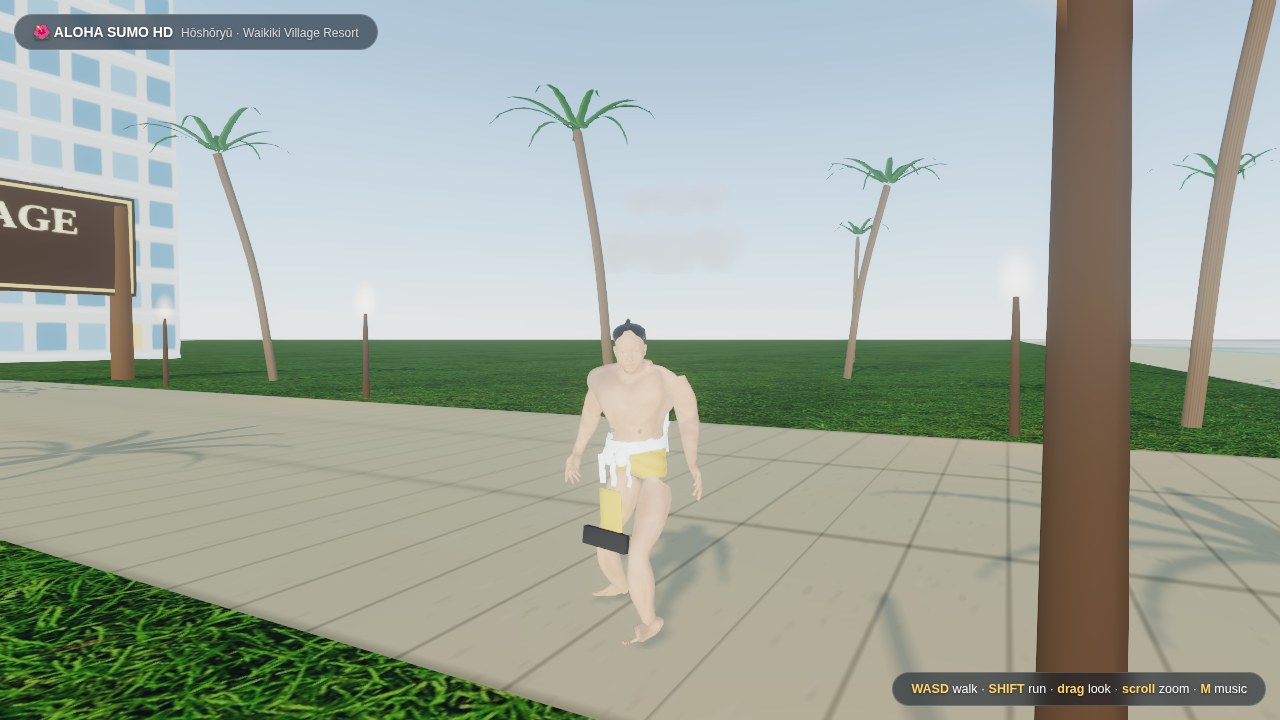
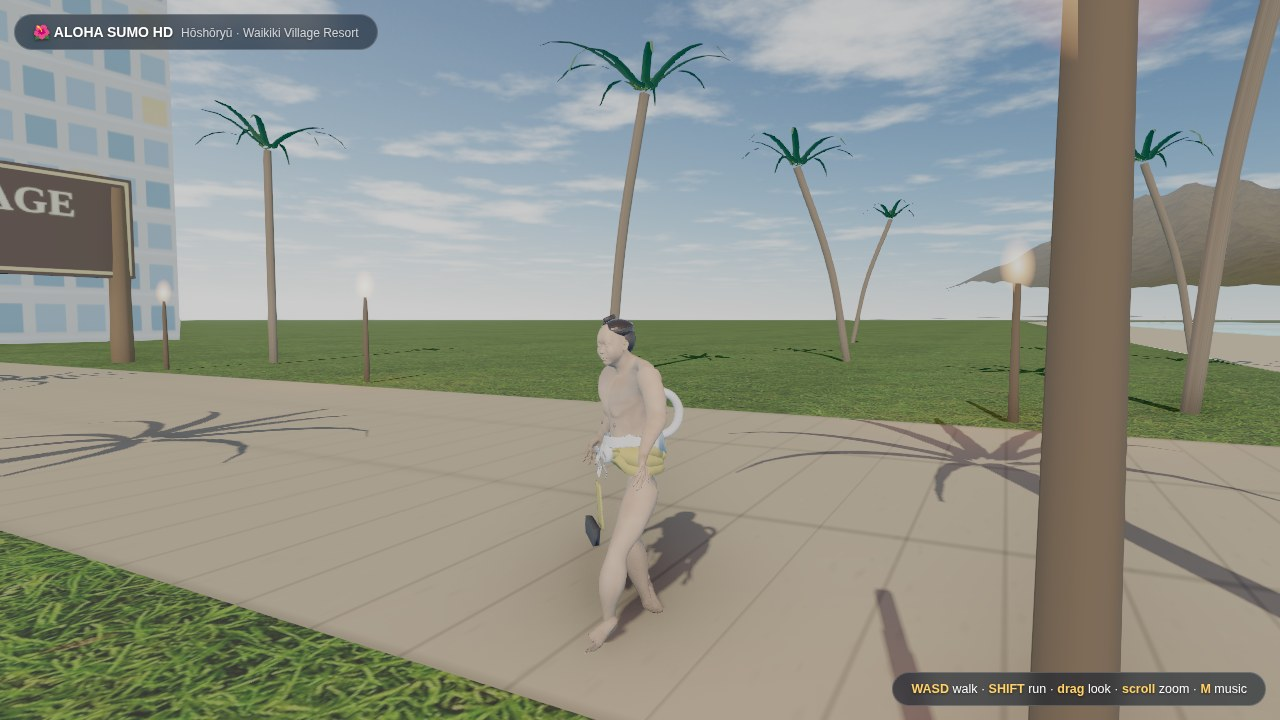
Finish realism pass: photographic sky, N8AO, 4K shadows, Diamond Head in HD
Replace procedural sky with a real tropical skybox photograph (cubemap
background + PMREM environment lighting), add N8AO ambient occlusion for
grounded contact shadows, bump shadow maps to 4096 with tighter frustum,
and port the Diamond Head heightfield into the HD scene.

Claude-Session: https://claude.ai/code/session_013bmtFi8wgBC195uR3SXmAP

diff --git a/aloha-hd/src/hd-main.js b/aloha-hd/src/hd-main.js
@@ -4,14 +4,14 @@
    bloom + SMAA post. Bundled fully self-contained (assets are base64). */
 import * as THREE from 'three';
 import { GLTFLoader } from 'three/examples/jsm/loaders/GLTFLoader.js';
-import { Sky } from 'three/examples/jsm/objects/Sky.js';
+import { N8AOPass } from 'n8ao';
 import { Water } from 'three/examples/jsm/objects/Water.js';
 import { EffectComposer } from 'three/examples/jsm/postprocessing/EffectComposer.js';
 import { RenderPass } from 'three/examples/jsm/postprocessing/RenderPass.js';
 import { UnrealBloomPass } from 'three/examples/jsm/postprocessing/UnrealBloomPass.js';
 import { SMAAPass } from 'three/examples/jsm/postprocessing/SMAAPass.js';
 import { OutputPass } from 'three/examples/jsm/postprocessing/OutputPass.js';
-import { SUMO_GLB, TEX_WATERNORMALS, TEX_GRASS } from './hd-assets.js';
+import { SUMO_GLB, TEX_WATERNORMALS, TEX_GRASS, SKY_FACES } from './hd-assets.js';
 
 const canvas = document.getElementById('c');
 const renderer = new THREE.WebGLRenderer({ canvas, antialias: true, powerPreference: 'high-performance' });
@@ -28,6 +28,12 @@ const camera = new THREE.PerspectiveCamera(55, innerWidth / innerHeight, 0.25, 5
 
 const composer = new EffectComposer(renderer);
 composer.addPass(new RenderPass(scene, camera));
+const n8ao = new N8AOPass(scene, camera, innerWidth, innerHeight);
+n8ao.configuration.aoRadius = 1.4;
+n8ao.configuration.distanceFalloff = 3.0;
+n8ao.configuration.intensity = 3.5;
+n8ao.setQualityMode('Medium');
+composer.addPass(n8ao);
 const bloom = new UnrealBloomPass(new THREE.Vector2(innerWidth, innerHeight), 0.15, 0.7, 0.95);
 composer.addPass(bloom);
 const smaa = new SMAAPass(innerWidth, innerHeight);
@@ -50,61 +56,21 @@ const groundY = (x, z) => beachY(z);
 const sunDir = new THREE.Vector3(-0.78, 0.6, 0.2).normalize();
 const sun = new THREE.DirectionalLight(0xfff2dd, 2.2);
 sun.castShadow = true;
-sun.shadow.mapSize.set(2048, 2048);
+sun.shadow.mapSize.set(4096, 4096);
 sun.shadow.camera.near = 5; sun.shadow.camera.far = 300;
-sun.shadow.camera.left = -30; sun.shadow.camera.right = 30;
-sun.shadow.camera.top = 40; sun.shadow.camera.bottom = -30;
+sun.shadow.camera.left = -24; sun.shadow.camera.right = 24;
+sun.shadow.camera.top = 32; sun.shadow.camera.bottom = -24;
 sun.shadow.bias = -0.0004;
 scene.add(sun, sun.target);
 
-// bright tropical sky: atmosphere shader drives both backdrop and IBL
-const sky = new Sky();
-sky.scale.setScalar(4000);
-const skyU = sky.material.uniforms;
-skyU.turbidity.value = 2.0;
-skyU.rayleigh.value = 1.35;
-skyU.mieCoefficient.value = 0.002;
-skyU.mieDirectionalG.value = 0.8;
-skyU.sunPosition.value.copy(sunDir);
+// photographic tropical sky: cubemap backdrop + PMREM image-based lighting
 {
-  const pmrem = new THREE.PMREMGenerator(renderer);
-  const envScene = new THREE.Scene();
-  envScene.add(sky);
-  scene.environment = pmrem.fromScene(envScene).texture;
-  scene.add(sky); // re-attach as the visible backdrop
-}
-// trade-wind cumulus
-{
-  const cv = document.createElement('canvas'); cv.width = 256; cv.height = 128;
-  const cx = cv.getContext('2d');
-  const baseY = 92;
-  for (let i = 0; i < 30; i++) {
-    const x = 128 + (Math.random() - 0.5) * 180;
-    const r = 12 + Math.random() * 24;
-    let y = baseY - Math.abs(Math.random() - 0.5) * 66 - r * 0.3;
-    if (y > baseY - r * 0.4) y = baseY - r * 0.4;
-    const g = cx.createRadialGradient(x, y, 1, x, y, r);
-    g.addColorStop(0, 'rgba(255,253,248,0.78)');
-    g.addColorStop(0.8, 'rgba(252,248,240,0.28)');
-    g.addColorStop(1, 'rgba(252,248,240,0)');
-    cx.fillStyle = g;
-    cx.fillRect(0, 0, 256, 128);
-  }
-  cx.clearRect(0, baseY + 6, 256, 128 - baseY - 6);
-  const tex = new THREE.CanvasTexture(cv);
-  window.__clouds = [];
-  for (let i = 0; i < 12; i++) {
-    const sp = new THREE.Sprite(new THREE.SpriteMaterial({ map: tex, transparent: true, depthWrite: false, fog: false }));
-    sp.material.toneMapped = false;
-    sp.material.opacity = 0.5 + Math.random() * 0.22;
-    const a = Math.random() * 6.283, d = 900 + Math.random() * 500;
-    sp.position.set(Math.cos(a) * d, 150 + Math.random() * 160, Math.sin(a) * d);
-    const sc = 220 + Math.random() * 170;
-    sp.scale.set(sc, sc * 0.5, 1);
-    sp.userData.v = 1 + Math.random() * 1.5;
-    scene.add(sp);
-    window.__clouds.push(sp);
-  }
+  const cube = new THREE.CubeTextureLoader().load(SKY_FACES, t => {
+    t.colorSpace = THREE.SRGBColorSpace;
+    scene.background = t;
+    const pmrem = new THREE.PMREMGenerator(renderer);
+    scene.environment = pmrem.fromCubemap(t).texture;
+  });
 }
 
 // ocean
@@ -225,6 +191,56 @@ function speck(cx, w, h, n, cols) {
   path.position.z = SHORE_Z - 32;
   path.receiveShadow = true;
   scene.add(path);
+}
+
+// Diamond Head across the bay
+{
+  const mcv = document.createElement('canvas'); mcv.width = mcv.height = 512;
+  const mx = mcv.getContext('2d');
+  mx.fillStyle = '#8b8058'; mx.fillRect(0, 0, 512, 512);
+  speck(mx, 512, 512, 9000, ['#6d7a45', '#7d7048', '#98865e', '#5c6b3c', '#a3906a']);
+  for (let i = 0; i < 240; i++) {
+    const x = Math.random() * 512;
+    mx.strokeStyle = `rgba(70,60,40,${0.1 + Math.random() * 0.22})`;
+    mx.lineWidth = 1 + Math.random() * 2;
+    mx.beginPath(); mx.moveTo(x, Math.random() * 200); mx.lineTo(x + (Math.random() - 0.5) * 40, 512); mx.stroke();
+  }
+  const mot = new THREE.CanvasTexture(mcv);
+  mot.wrapS = mot.wrapT = THREE.RepeatWrapping; mot.repeat.set(3, 3);
+  mot.colorSpace = THREE.SRGBColorSpace;
+  const seg = 96, geo = new THREE.PlaneGeometry(1, 1, seg, seg);
+  const pos = geo.attributes.position;
+  const colors = new Float32Array(pos.count * 3);
+  const lowC = new THREE.Color(0x6a7a48), midC = new THREE.Color(0x93875c), hiC = new THREE.Color(0xa89468);
+  const sm = (a, b, x) => { const t = Math.max(0, Math.min(1, (x - a) / (b - a))); return t * t * (3 - 2 * t); };
+  const maxH = 150;
+  for (let i = 0; i < pos.count; i++) {
+    const u = pos.getX(i) * 2, v = pos.getY(i) * 2;
+    let ridge = 0.14 * sm(-1.0, -0.55, u) + 0.38 * sm(-0.75, -0.2, u) + 0.48 * sm(-0.05, 0.32, u);
+    ridge *= 1 - sm(0.42, 0.85, u) * 0.96;
+    const width = 0.55 + 0.25 * (1 - (u + 1) / 2);
+    let hgt = maxH * ridge * Math.exp(-(v * v) / (2 * width * width));
+    hgt -= maxH * 0.22 * Math.exp(-((u + 0.15) ** 2) / 0.18 - ((v + 0.55) ** 2) / 0.1);
+    hgt = Math.max(0, hgt);
+    hgt *= 1 + 0.032 * Math.sin(u * 40 + v * 31) + 0.05 * Math.sin(u * 13 + 2) + 0.025 * Math.sin(u * 90 - v * 70);
+    const t2 = Math.min(1, hgt / maxH * 1.5);
+    const c = t2 < 0.5 ? lowC.clone().lerp(midC, t2 * 2) : midC.clone().lerp(hiC, (t2 - 0.5) * 2);
+    const j = 0.94 + Math.random() * 0.12;
+    colors[i * 3] = c.r * j; colors[i * 3 + 1] = c.g * j; colors[i * 3 + 2] = c.b * j;
+    pos.setXYZ(i, pos.getX(i) * 880, pos.getY(i) * 620, hgt);
+  }
+  geo.setAttribute('color', new THREE.BufferAttribute(colors, 3));
+  geo.computeVertexNormals();
+  const dh = new THREE.Mesh(geo, new THREE.MeshStandardMaterial({ vertexColors: true, map: mot, roughness: 1 }));
+  dh.rotation.x = -Math.PI / 2;
+  dh.rotation.z = 0.55;
+  dh.position.set(880, -1, 330);
+  scene.add(dh);
+  const base = new THREE.Mesh(new THREE.CircleGeometry(430, 40),
+    new THREE.MeshStandardMaterial({ color: 0x55663a, roughness: 1 }));
+  base.rotation.x = -Math.PI / 2;
+  base.position.set(870, -0.42, 310);
+  scene.add(base);
 }
 
 // palms (procedural, lit by the HDRI)

diff --git a/aloha-hd/src/hd-embed.js b/aloha-hd/src/hd-embed.js
@@ -13,6 +13,7 @@ const out = `// generated by hd-embed.js — do not edit
 export const SUMO_GLB = "${dataUrl(path.join(HERE, 'hoshoryu.glb'), 'model/gltf-binary')}";
 export const TEX_WATERNORMALS = "${dataUrl(path.join(HERE, 'waternormals.jpg'), 'image/jpeg')}";
 export const TEX_GRASS = "${dataUrl(path.join(HERE, 'three-repo/examples/textures/terrain/grasslight-big.jpg'), 'image/jpeg')}";
+export const SKY_FACES = [${['px','nx','py','ny','pz','nz'].map(f => '"' + dataUrl(path.join(HERE, 'skybox/' + f + '.jpg'), 'image/jpeg') + '"').join(',\n')}];
 `;
 fs.writeFileSync(path.join(HERE, 'hd-assets.js'), out);
 console.log('hd-assets.js written', (fs.statSync(path.join(HERE, 'hd-assets.js')).size / 1048576).toFixed(1), 'MB');

diff --git a/aloha-hd/README.md b/aloha-hd/README.md
@@ -32,9 +32,9 @@ auto-detects and loops it.
 2. **Animation — world-space constraint retargeting** (`src/gen_anims.py`):
    the three.js Soldier's mocap Idle/Walk/Run clips are baked bone-by-bone
    onto the sumo rig with visual keying, then exported inside the GLB.
-3. **Rendering — three.js r160**: bright tropical-sky atmosphere shader
-   driving both the backdrop and the image-based lighting (PMREM), trade-wind
-   cumulus, ACES tone mapping, PCF soft shadows, reflective
+3. **Rendering — three.js r160**: photographic tropical skybox (real clouds)
+   driving image-based lighting via PMREM, N8AO ambient occlusion, 4K
+   shadows, Diamond Head heightfield across the bay, ACES tone mapping, PCF soft shadows, reflective
    ocean (`Water` + real normal map), PBR grass texture, procedural palms,
    torches with real point lights, UnrealBloom + SMAA post-processing.
 4. Bundled with esbuild; assets embedded as base64 so `file://` just works.